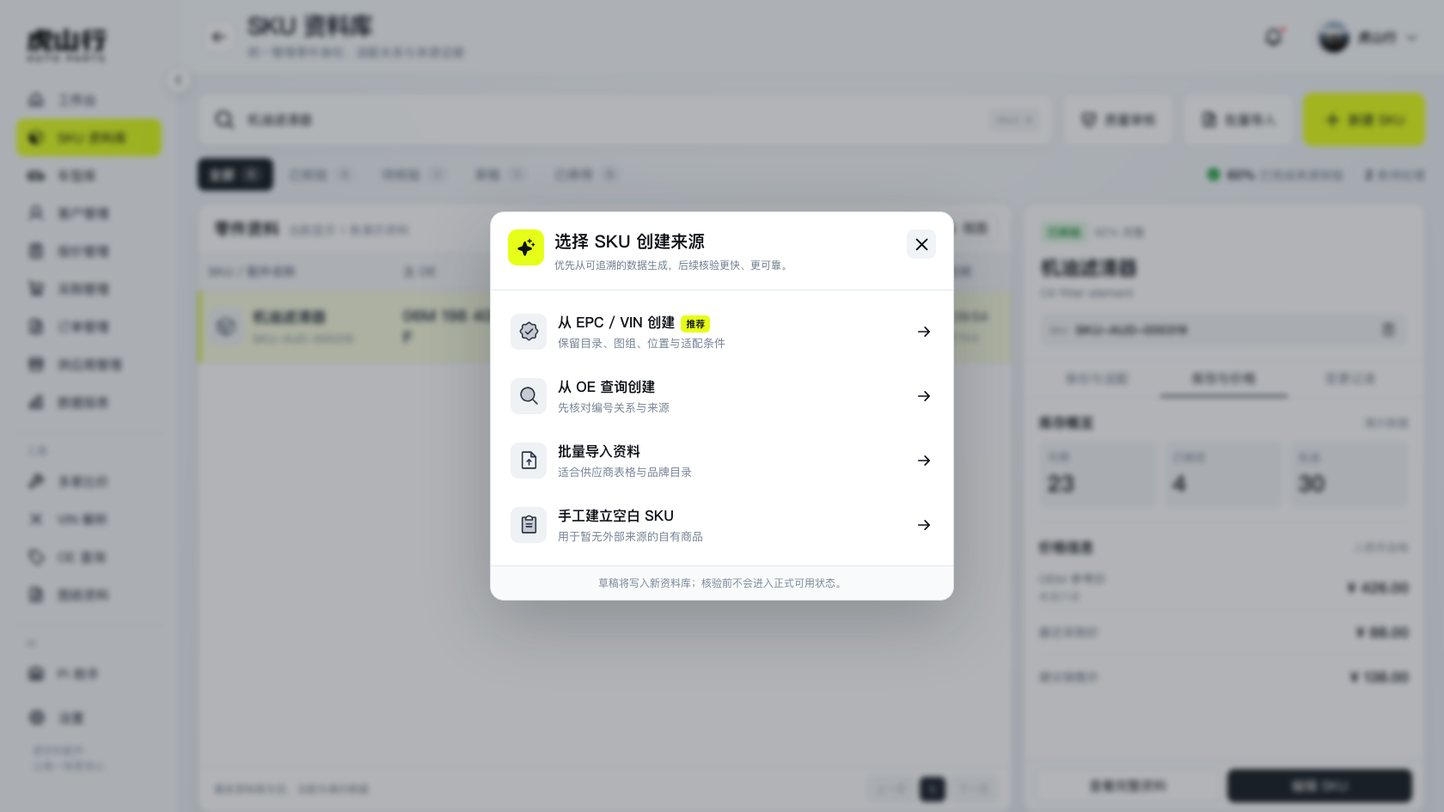
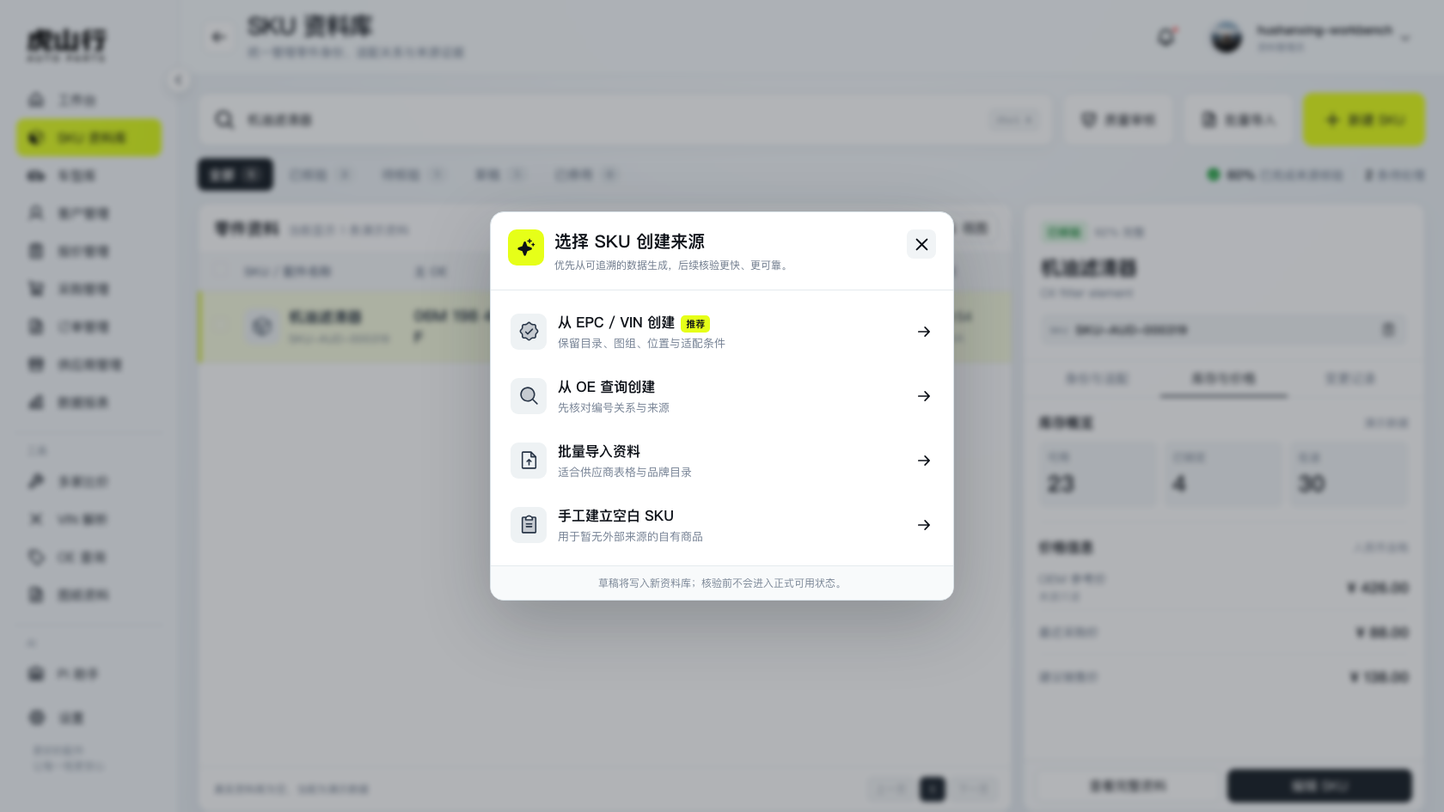
feat: add catalog roles and controlled bulk actions

diff --git a/apps/web/src/components/SkuLibrary.jsx b/apps/web/src/components/SkuLibrary.jsx
@@ -3,7 +3,6 @@ import {
   ArrowLeft,
   ArrowRight,
   Bell,
-  CaretDown,
   Check,
   CheckCircle,
   ClipboardText,
@@ -27,6 +26,8 @@ import { SkuEditor } from './SkuEditor'
 import { SkuImportDialog } from './SkuImportDialog'
 import { SkuQualityQueue } from './SkuQualityQueue'
 import { SkuVersionDialog } from './SkuVersionDialog'
+import { CatalogOperatorMenu } from './CatalogOperatorMenu'
+import { SkuBulkActionDialog } from './SkuBulkActionDialog'
 import { getCatalogDictionaries, getCatalogSku, listCatalogSkus } from '../services/catalogApi'
 import '../sku-library.css'
 
@@ -63,6 +64,9 @@ export function SkuLibrary({ onNavigate, sidebarCollapsed, onToggleSidebar }) {
   const [importOpen, setImportOpen] = useState(false)
   const [qualityOpen, setQualityOpen] = useState(false)
   const [versionDialogChange, setVersionDialogChange] = useState(null)
+  const [bulkAction, setBulkAction] = useState('')
+  const [selectedIds, setSelectedIds] = useState([])
+  const [catalogSession, setCatalogSession] = useState(null)
   const [editorContext, setEditorContext] = useState(null)
   const [toast, setToast] = useState('')
   const [allRecords, setAllRecords] = useState(skuRecords)
@@ -133,6 +137,8 @@ export function SkuLibrary({ onNavigate, sidebarCollapsed, onToggleSidebar }) {
   }, [allRecords, dataMode, query, status])
 
   const selected = allRecords.find((item) => item.id === selectedId) || records[0] || allRecords[0] || emptyRecord
+  const selectedRecords = records.filter((record) => selectedIds.includes(record.id))
+  const hasCapability = (capability) => catalogSession?.capabilities?.includes(capability) ?? true
   const statusFilters = useMemo(() => skuStatusFilters.map((item) => ({
     ...item,
     count: dataMode === 'live'
@@ -166,7 +172,7 @@ export function SkuLibrary({ onNavigate, sidebarCollapsed, onToggleSidebar }) {
   }
 
   const openSelectedEditor = async () => {
-    if (selected.dataOrigin === 'empty') return
+    if (selected.dataOrigin === 'empty' || !hasCapability('catalog.edit')) return
     let record = selected
     if (selected.dataOrigin === 'live' && !selected.aggregate) {
       try {
@@ -194,7 +200,7 @@ export function SkuLibrary({ onNavigate, sidebarCollapsed, onToggleSidebar }) {
     return (
       <div className={`workbench-home sku-workspace ${sidebarCollapsed ? 'sidebar-collapsed' : ''}`}>
         <WorkbenchSidebar active="sku" collapsed={sidebarCollapsed} onToggle={onToggleSidebar} onNavigate={onNavigate} onUnavailable={(label) => notify(`${label}将在后续业务阶段接入`)} />
-        <SkuQualityQueue onBack={() => { setQualityOpen(false); loadCatalog() }} onEdit={(record) => { setQualityOpen(false); setEditorContext({ source: 'epc', record }) }} onSaved={handleSaved} onNotify={notify} />
+        <SkuQualityQueue capabilities={catalogSession?.capabilities || ['catalog.edit', 'catalog.submit', 'catalog.review', 'catalog.assign', 'catalog.lifecycle']} onBack={() => { setQualityOpen(false); loadCatalog() }} onEdit={(record) => { setQualityOpen(false); setEditorContext({ source: 'epc', record }) }} onSaved={handleSaved} onNotify={notify} />
         {toast ? <div className="workbench-toast"><Check size={17} weight="bold" />{toast}</div> : null}
       </div>
     )
@@ -212,7 +218,7 @@ export function SkuLibrary({ onNavigate, sidebarCollapsed, onToggleSidebar }) {
           <div className="sku-profile">
             <button type="button" aria-label="通知"><Bell size={23} weight="bold" /><i /></button>
             <img src={assetPath('assets/workbench/avatar.png')} alt="虎山行头像" />
-            <strong>虎山行</strong><CaretDown size={15} weight="bold" />
+            <CatalogOperatorMenu onSession={(next) => { setCatalogSession(next); setSelectedIds([]) }} />
           </div>
         </header>
 
@@ -220,8 +226,8 @@ export function SkuLibrary({ onNavigate, sidebarCollapsed, onToggleSidebar }) {
           <section className="sku-toolbar" aria-label="SKU 搜索和操作">
             <div className="sku-searchbox"><MagnifyingGlass size={25} weight="bold" /><input value={query} onChange={(event) => setQuery(event.target.value)} placeholder="搜索 SKU、OE 号、配件名称、品牌或适配车型" /><kbd>Ctrl K</kbd></div>
             <button className="sku-secondary-action" type="button" onClick={() => setQualityOpen(true)}><ShieldCheck size={20} weight="bold" />质量审核</button>
-            <button className="sku-secondary-action" type="button" onClick={() => setImportOpen(true)}><FileArrowUp size={20} weight="bold" />批量导入</button>
-            <button className="sku-primary-action" type="button" onClick={() => setSourceOpen(true)}><Plus size={21} weight="bold" />新建 SKU</button>
+            <button className="sku-secondary-action" type="button" disabled={!hasCapability('catalog.import')} onClick={() => setImportOpen(true)}><FileArrowUp size={20} weight="bold" />批量导入</button>
+            <button className="sku-primary-action" type="button" disabled={!hasCapability('catalog.edit')} onClick={() => setSourceOpen(true)}><Plus size={21} weight="bold" />新建 SKU</button>
           </section>
 
           <section className="sku-summarybar">
@@ -233,16 +239,16 @@ export function SkuLibrary({ onNavigate, sidebarCollapsed, onToggleSidebar }) {
 
           <section className="sku-splitview">
             <article className="sku-list-panel">
-              <div className="sku-list-heading">
-                <div><h2>零件资料</h2><span>{dataMode === 'live' ? `当前显示 ${records.length} 条真实资料` : dataMode === 'loading' ? '正在连接资料库…' : `当前显示 ${records.length} 条演示资料`}</span></div>
-                <div><button type="button" onClick={() => notify('高级筛选将在字段字典接入后开放')}><Funnel size={17} weight="bold" />筛选</button><button type="button" onClick={() => notify('当前采用已确定的表格 + 详情视图')}><SlidersHorizontal size={17} weight="bold" />视图</button></div>
+              <div className={`sku-list-heading ${selectedRecords.length ? 'selection-active' : ''}`}>
+                {selectedRecords.length ? <div className="sku-bulk-bar"><strong>已选 {selectedRecords.length} 条</strong><button type="button" disabled={!hasCapability('catalog.submit') || selectedRecords.some((item) => item.status !== 'draft')} onClick={() => setBulkAction('submit_review')}>提交审核</button><button type="button" disabled={!hasCapability('catalog.assign') || selectedRecords.some((item) => item.status !== 'review')} onClick={() => setBulkAction('assign_review')}>分配审核人</button><button type="button" disabled={!hasCapability('catalog.lifecycle') || selectedRecords.some((item) => item.status !== 'verified')} onClick={() => setBulkAction('discontinue')}>停用资料</button><button type="button" onClick={() => setSelectedIds([])}>取消选择</button></div> : <><div><h2>零件资料</h2><span>{dataMode === 'live' ? `当前显示 ${records.length} 条真实资料` : dataMode === 'loading' ? '正在连接资料库…' : `当前显示 ${records.length} 条演示资料`}</span></div><div><button type="button" onClick={() => notify('高级筛选将在字段字典接入后开放')}><Funnel size={17} weight="bold" />筛选</button><button type="button" onClick={() => notify('当前采用已确定的表格 + 详情视图')}><SlidersHorizontal size={17} weight="bold" />视图</button></div></>}
               </div>
               <div className="sku-table-wrap">
                 <table className="sku-table">
-                  <thead><tr><th>SKU / 配件名称</th><th>主 OE</th><th>品牌 / 分类</th><th>适配</th><th>资料状态</th><th>更新时间</th></tr></thead>
+                  <thead><tr><th className="sku-select-cell"><input type="checkbox" aria-label="选择当前页全部 SKU" disabled={dataMode !== 'live' || !records.length} checked={Boolean(records.length) && selectedRecords.length === records.length} onChange={(event) => setSelectedIds(event.target.checked ? records.map((record) => record.id) : [])} /></th><th>SKU / 配件名称</th><th>主 OE</th><th>品牌 / 分类</th><th>适配</th><th>资料状态</th><th>更新时间</th></tr></thead>
                   <tbody>
                     {records.map((item) => (
                       <tr className={selected.id === item.id ? 'selected' : ''} key={item.id} onClick={() => setSelectedId(item.id)}>
+                        <td className="sku-select-cell"><input type="checkbox" aria-label={`选择 ${item.name}`} disabled={dataMode !== 'live'} checked={selectedIds.includes(item.id)} onClick={(event) => event.stopPropagation()} onChange={(event) => setSelectedIds((current) => event.target.checked ? [...current, item.id] : current.filter((id) => id !== item.id))} /></td>
                         <td><span className="sku-part-cell"><span className="sku-part-icon"><Cube size={24} weight="duotone" /></span><span><strong>{item.name}</strong><small>{item.code}</small></span></span></td>
                         <td><b className="sku-oe">{item.primaryOe}</b></td>
                         <td><strong>{item.brand}</strong><small>{item.category}</small></td>
@@ -281,7 +287,7 @@ export function SkuLibrary({ onNavigate, sidebarCollapsed, onToggleSidebar }) {
                 </> : null}
                 {detailTab === 'history' ? <section className="inspector-section history-list"><div className="inspector-section-title"><h3>最近变更</h3><span>版本 {selected.version || 1}</span></div>{selected.dataOrigin === 'live' ? selected.changes.map((change) => <button type="button" key={change.id || `${change.version}-${change.action}`} onClick={() => setVersionDialogChange(change)}><CheckCircle size={19} weight="fill" /><span><strong>v{change.version} · {changeActionLabels[change.action] || change.action}</strong><small>{change.changedBy || '系统操作员'} · {changeTime(change.changedAt)}</small></span><ArrowRight size={15} /></button>) : <><div><CheckCircle size={19} weight="fill" /><span><strong>来源核验通过</strong><small>演示记录</small></span></div><div><ClockCounterClockwise size={19} /><span><strong>更新适配条件</strong><small>演示记录</small></span></div><div><Stack size={19} /><span><strong>同步 EPC 原始记录</strong><small>演示记录</small></span></div></>}{selected.dataOrigin === 'live' && !selected.changes.length ? <div><ClockCounterClockwise size={19} /><span><strong>暂无变更记录</strong><small>保存后将在此显示</small></span></div> : null}</section> : null}
               </div>
-              <footer className="sku-inspector-actions"><button type="button" disabled={selected.dataOrigin === 'empty'} onClick={() => notify('当前右侧已展示完整身份资料')}>查看完整资料</button><button type="button" disabled={selected.dataOrigin === 'empty'} onClick={openSelectedEditor}>编辑 SKU</button></footer>
+              <footer className="sku-inspector-actions"><button type="button" disabled={selected.dataOrigin === 'empty'} onClick={() => notify('当前右侧已展示完整身份资料')}>查看完整资料</button><button type="button" disabled={selected.dataOrigin === 'empty' || !hasCapability('catalog.edit')} onClick={openSelectedEditor}>编辑 SKU</button></footer>
             </aside>
           </section>
         </div>
@@ -289,7 +295,8 @@ export function SkuLibrary({ onNavigate, sidebarCollapsed, onToggleSidebar }) {
 
       {sourceOpen ? <div className="sku-modal-backdrop" onMouseDown={() => setSourceOpen(false)}><div className="sku-source-modal" role="dialog" aria-modal="true" aria-label="选择 SKU 创建来源" onMouseDown={(event) => event.stopPropagation()}><header><div><span><Sparkle size={22} weight="fill" /></span><div><h2>选择 SKU 创建来源</h2><p>优先从可追溯的数据生成，后续核验更快、更可靠。</p></div></div><button type="button" aria-label="关闭" onClick={() => setSourceOpen(false)}><X size={21} weight="bold" /></button></header><div className="sku-source-list">{sources.map((source) => { const Icon = source.icon; return <button type="button" key={source.id} onClick={() => { setSourceOpen(false); setEditorContext({ source: source.id }) }}><span className="source-icon"><Icon size={25} weight="duotone" /></span><span><strong>{source.title}{source.recommended ? <em>推荐</em> : null}</strong><small>{source.note}</small></span><ArrowRight size={18} weight="bold" /></button> })}</div><footer>草稿将写入新资料库；核验前不会进入正式可用状态。</footer></div></div> : null}
       {importOpen ? <SkuImportDialog onClose={() => setImportOpen(false)} onCompleted={() => loadCatalog()} onNotify={notify} /> : null}
-      {versionDialogChange && selected.dataOrigin === 'live' ? <SkuVersionDialog record={selected} initialChange={versionDialogChange} onClose={() => setVersionDialogChange(null)} onRestored={handleSaved} onNotify={notify} /> : null}
+      {versionDialogChange && selected.dataOrigin === 'live' ? <SkuVersionDialog record={selected} initialChange={versionDialogChange} canRestore={hasCapability('catalog.restore')} onClose={() => setVersionDialogChange(null)} onRestored={handleSaved} onNotify={notify} /> : null}
+      {bulkAction ? <SkuBulkActionDialog records={selectedRecords} action={bulkAction} onClose={() => setBulkAction('')} onCompleted={() => { setSelectedIds([]); loadCatalog() }} onNotify={notify} /> : null}
       {toast ? <div className="workbench-toast"><Check size={17} weight="bold" />{toast}</div> : null}
     </div>
   )

diff --git a/apps/web/src/sku-library.css b/apps/web/src/sku-library.css
@@ -11,6 +11,8 @@
 .sku-profile > button i { position: absolute; top: 8px; right: 6px; width: 7px; height: 7px; border: 1px solid #fff; border-radius: 50%; background: #ff3030; }
 .sku-profile img { width: 42px; height: 42px; border-radius: 50%; object-fit: cover; }
 .sku-profile strong { font-size: 15px; }
+.catalog-operator-menu { position: relative; }.catalog-operator-menu > button { min-width: 132px; height: 44px; padding: 0 8px; display: flex; align-items: center; gap: 8px; border: 0; border-radius: 9px; background: transparent; text-align: left; cursor: pointer; }.catalog-operator-menu > button:hover { background: #f1f4f6; }.catalog-operator-menu > button > span { min-width: 0; flex: 1; }.catalog-operator-menu > button strong, .catalog-operator-menu > button small { display: block; }.catalog-operator-menu > button strong { overflow: hidden; font-size: 14px; text-overflow: ellipsis; white-space: nowrap; }.catalog-operator-menu > button small { margin-top: 2px; color: #738094; font-size: 11px; }
+.catalog-role-popover { position: absolute; z-index: 80; top: calc(100% + 8px); right: 0; width: 292px; overflow: hidden; border: 1px solid #d8e0e6; border-radius: 12px; background: #fff; box-shadow: 0 18px 48px rgba(26,39,50,.18); }.catalog-role-popover > header { padding: 13px 14px; display: flex; gap: 9px; border-bottom: 1px solid #e3e8ec; background: #f7f9fa; }.catalog-role-popover header svg { flex: none; color: #536400; }.catalog-role-popover header strong, .catalog-role-popover header span { display: block; }.catalog-role-popover header strong { font-size: 14px; }.catalog-role-popover header span { margin-top: 3px; color: #6d7a8c; font-size: 12px; }.catalog-role-popover > div { padding: 6px; }.catalog-role-popover > div > button { width: 100%; min-height: 52px; padding: 7px 9px; display: flex; align-items: center; justify-content: space-between; border: 0; border-radius: 8px; background: transparent; text-align: left; cursor: pointer; }.catalog-role-popover > div > button:hover { background: #f7fadf; }.catalog-role-popover > div > button strong, .catalog-role-popover > div > button small { display: block; }.catalog-role-popover > div > button strong { font-size: 14px; }.catalog-role-popover > div > button small { margin-top: 2px; color: #788497; font-size: 11px; }
 .sku-content { padding: 20px 22px 22px; }
 
 .sku-toolbar { height: 62px; display: grid; grid-template-columns: minmax(460px, 1fr) auto auto auto; gap: 10px; }
@@ -22,6 +24,7 @@
 .sku-secondary-action, .sku-primary-action { height: 62px; padding: 0 20px; display: inline-flex; align-items: center; justify-content: center; gap: 8px; border-radius: 11px; font-size: 16px; font-weight: 750; cursor: pointer; }
 .sku-secondary-action { border: 1px solid #d8e1e7; background: rgba(255,255,255,.94); }
 .sku-primary-action { min-width: 142px; border: 0; background: var(--wb-accent); }
+.sku-secondary-action:disabled, .sku-primary-action:disabled { cursor: not-allowed; opacity: .45; }
 
 .sku-summarybar { height: 66px; display: flex; align-items: center; justify-content: space-between; }
 .sku-filter-tabs { display: flex; align-items: center; gap: 5px; }
@@ -40,12 +43,14 @@
 .sku-list-heading h2 { margin: 0; font-size: 19px; }.sku-list-heading span { color: #768194; font-size: 14px; }
 .sku-list-heading > div:last-child { display: flex; gap: 7px; }
 .sku-list-heading button { height: 33px; padding: 0 10px; display: inline-flex; align-items: center; gap: 6px; border: 1px solid #dce4e9; border-radius: 7px; background: #fff; font-size: 13px; cursor: pointer; }
+.sku-list-heading.selection-active { padding: 0 12px; background: #f7fadf; }.sku-bulk-bar { width: 100%; display: flex; align-items: center; gap: 7px; }.sku-bulk-bar > strong { margin-right: auto; font-size: 14px; }.sku-bulk-bar button { border-color: #ced7ad; background: #fff; font-weight: 700; }.sku-bulk-bar button:disabled { cursor: not-allowed; opacity: .42; }
 .sku-table-wrap { min-height: 0; overflow: auto; }
 .sku-table { width: 100%; border-collapse: collapse; table-layout: fixed; }
 .sku-table th { position: sticky; z-index: 2; top: 0; height: 43px; padding: 0 11px; border-bottom: 1px solid #e1e7eb; color: #697588; background: #f5f7f9; font-size: 14px; font-weight: 650; text-align: left; }
 .sku-table td { height: 84px; padding: 8px 11px; border-bottom: 1px solid #e6ebef; color: #1d2939; font-size: 15px; vertical-align: middle; cursor: pointer; }
 .sku-table tr:hover td { background: #f8fafb; }.sku-table tr.selected td { background: #f6fadf; }.sku-table tr.selected td:first-child { box-shadow: inset 3px 0 0 #cde800; }
-.sku-table th:nth-child(1) { width: 24%; }.sku-table th:nth-child(2) { width: 16%; }.sku-table th:nth-child(3) { width: 20%; }.sku-table th:nth-child(4) { width: 15%; }.sku-table th:nth-child(5) { width: 13%; }.sku-table th:nth-child(6) { width: 12%; }
+.sku-table th:nth-child(1) { width: 42px; }.sku-table th:nth-child(2) { width: 21%; }.sku-table th:nth-child(3) { width: 15%; }.sku-table th:nth-child(4) { width: 18%; }.sku-table th:nth-child(5) { width: 14%; }.sku-table th:nth-child(6) { width: 14%; }.sku-table th:nth-child(7) { width: 14%; }
+.sku-table .sku-select-cell { padding-right: 4px; padding-left: 12px; text-align: center; }.sku-select-cell input { width: 17px; height: 17px; margin: 0; accent-color: #182029; cursor: pointer; }.sku-select-cell input:disabled { cursor: not-allowed; opacity: .4; }
 .sku-table td > strong, .sku-table td > span:not(.sku-part-cell):not(.sku-state) { display: block; overflow: hidden; text-overflow: ellipsis; white-space: nowrap; }
 .sku-table td > small { display: block; margin-top: 5px; overflow: hidden; color: #788497; font-size: 13px; text-overflow: ellipsis; white-space: nowrap; }
 .sku-part-cell { display: flex; align-items: center; gap: 10px; }.sku-part-icon { flex: none; width: 42px; height: 42px; display: grid; place-items: center; border-radius: 9px; color: #243346; background: #eef2f4; }
@@ -89,5 +94,9 @@
 .sku-version-layout > main { min-width: 0; min-height: 0; padding: 15px 17px; display: grid; grid-template-rows: auto minmax(0,1fr) auto; gap: 12px; background: #fff; }.sku-version-summary { min-height: 72px; padding: 11px 13px; display: grid; grid-template-columns: 125px 135px 1fr; align-items: center; gap: 10px; border: 1px solid #dce4e9; border-radius: 10px; background: #f7f9fa; }.sku-version-summary > div span, .sku-version-summary > div strong { display: block; }.sku-version-summary > div span { color: #6f7d90; font-size: 12px; }.sku-version-summary > div strong { margin-top: 3px; font-size: 19px; }.sku-version-summary p { margin: 0; padding-left: 14px; border-left: 1px solid #dce3e7; color: #5f6d80; font-size: 13px; line-height: 1.55; }
 .sku-version-compare { min-height: 0; overflow: auto; border: 1px solid #dce4e9; border-radius: 10px; }.sku-version-compare > div { min-height: 54px; padding: 8px 12px; display: grid; grid-template-columns: 110px 1fr 1fr; align-items: center; gap: 12px; border-bottom: 1px solid #e7ecef; }.sku-version-compare > div:last-child { border-bottom: 0; }.sku-version-compare-head { position: sticky; z-index: 2; top: 0; min-height: 42px !important; color: #687588; background: #f1f4f6; font-size: 13px; font-weight: 700; }.sku-version-compare > div > strong { font-size: 13px; }.sku-version-compare > div > span { min-width: 0; overflow-wrap: anywhere; color: #4e5c70; font-size: 13px; line-height: 1.45; }.sku-version-compare > div.changed { background: #fffef3; }.sku-version-compare > div.changed > strong { color: #745f00; }.sku-version-compare > div.changed > span:last-child { color: #17202a; font-weight: 700; }
 .sku-version-restore { padding-top: 2px; }.sku-version-restore label > span { display: block; margin-bottom: 6px; font-size: 13px; font-weight: 700; }.sku-version-restore textarea { width: 100%; height: 58px; padding: 9px 10px; resize: none; border: 1px solid #d6dfe5; border-radius: 8px; outline: 0; font: inherit; font-size: 14px; }.sku-version-restore textarea:focus { border-color: #9baa4a; box-shadow: 0 0 0 3px rgba(222,244,59,.18); }.sku-version-restore > p { margin: 5px 0 0; color: #bd4238; font-size: 13px; }.sku-version-restore > div { margin-top: 9px; display: flex; justify-content: flex-end; gap: 8px; }.sku-version-restore button { height: 38px; padding: 0 14px; display: inline-flex; align-items: center; gap: 7px; border: 1px solid #d4dde4; border-radius: 8px; background: #fff; font-size: 14px; font-weight: 700; cursor: pointer; }.sku-version-restore button.primary { border-color: #171f27; color: #fff; background: #171f27; }.sku-version-restore button:disabled { cursor: not-allowed; opacity: .45; }
+
+.sku-bulk-backdrop { position: fixed; z-index: 120; inset: 0; display: grid; place-items: center; background: rgba(25,34,42,.42); backdrop-filter: blur(4px); }.sku-bulk-dialog { width: min(620px, calc(100vw - 40px)); overflow: hidden; border: 1px solid #d7dfe5; border-radius: 15px; background: #fff; box-shadow: 0 26px 80px rgba(18,29,38,.26); }.sku-bulk-dialog > header { min-height: 84px; padding: 16px 18px; display: flex; justify-content: space-between; border-bottom: 1px solid #e1e7eb; }.sku-bulk-dialog > header > div { display: flex; gap: 11px; }.sku-bulk-dialog > header > div > span { width: 42px; height: 42px; display: grid; flex: none; place-items: center; border-radius: 10px; background: var(--wb-accent); }.sku-bulk-dialog > header > div > span.danger { color: #b03e35; background: #ffe6e2; }.sku-bulk-dialog h2 { margin: 0; font-size: 20px; }.sku-bulk-dialog header p { max-width: 450px; margin: 5px 0 0; color: #687588; font-size: 13px; line-height: 1.5; }.sku-bulk-dialog header > button { width: 34px; height: 34px; display: grid; place-items: center; border: 0; border-radius: 8px; background: #f1f4f6; cursor: pointer; }
+.sku-bulk-selection { margin: 16px 18px 12px; padding: 12px 13px; border: 1px solid #dce4e9; border-radius: 10px; background: #f7f9fa; }.sku-bulk-selection > strong { display: block; margin-bottom: 8px; font-size: 14px; }.sku-bulk-selection > div { max-height: 150px; overflow: auto; display: grid; grid-template-columns: 1fr 1fr; gap: 6px; }.sku-bulk-selection span { min-width: 0; padding: 7px 8px; display: block; overflow: hidden; border-radius: 7px; background: #fff; font-size: 13px; font-weight: 700; text-overflow: ellipsis; white-space: nowrap; }.sku-bulk-selection small { display: block; margin-top: 3px; overflow: hidden; color: #788597; font-size: 11px; font-weight: 500; text-overflow: ellipsis; }.sku-bulk-selection em { padding: 8px; color: #687588; font-size: 12px; font-style: normal; }
+.sku-bulk-field { margin: 0 18px 12px; display: block; }.sku-bulk-field > span { display: block; margin-bottom: 6px; font-size: 13px; font-weight: 700; }.sku-bulk-field input, .sku-bulk-field textarea { width: 100%; padding: 9px 10px; border: 1px solid #d5dee4; border-radius: 8px; outline: 0; font: inherit; font-size: 14px; }.sku-bulk-field input { height: 40px; }.sku-bulk-field textarea { height: 70px; resize: none; }.sku-bulk-field input:focus, .sku-bulk-field textarea:focus { border-color: #98a747; box-shadow: 0 0 0 3px rgba(220,244,48,.18); }.sku-bulk-error { margin: 0 18px 10px; display: flex; align-items: center; gap: 6px; color: #b63f36; font-size: 13px; }.sku-bulk-dialog > footer { padding: 12px 18px; display: flex; justify-content: flex-end; gap: 8px; border-top: 1px solid #e2e7eb; background: #fafbfc; }.sku-bulk-dialog > footer button, .sku-bulk-result > button { height: 39px; padding: 0 15px; border: 1px solid #d4dde3; border-radius: 8px; background: #fff; font-size: 14px; font-weight: 700; cursor: pointer; }.sku-bulk-dialog > footer button.primary { border-color: #172029; color: #fff; background: #172029; }.sku-bulk-dialog > footer button.danger { border-color: #c84d43; color: #fff; background: #c84d43; }.sku-bulk-dialog > footer button:disabled { cursor: not-allowed; opacity: .5; }.sku-bulk-result { min-height: 320px; padding: 38px 24px; display: flex; flex-direction: column; align-items: center; text-align: center; }.sku-bulk-result > svg { color: #20a043; }.sku-bulk-result h3 { margin: 13px 0 5px; font-size: 21px; }.sku-bulk-result > p { margin: 0; color: #647185; font-size: 14px; }.sku-bulk-result > div { width: 100%; max-height: 120px; margin-top: 15px; overflow: auto; text-align: left; }.sku-bulk-result > div span { padding: 7px; display: block; border-bottom: 1px solid #e4e9ec; color: #a23f37; font-size: 12px; }.sku-bulk-result > div strong { margin-right: 8px; color: #273446; }.sku-bulk-result > button { margin-top: 22px; }
 
 @media (min-width: 1780px) { .sku-content { padding-right: 28px; padding-left: 26px; }.sku-splitview { grid-template-columns: minmax(880px, 1.9fr) minmax(420px, .86fr); } }

diff --git a/apps/web/src/components/SkuQualityQueue.jsx b/apps/web/src/components/SkuQualityQueue.jsx
@@ -35,7 +35,7 @@ function shortTime(value) {
   return new Intl.DateTimeFormat('zh-CN', { month: '2-digit', day: '2-digit', hour: '2-digit', minute: '2-digit', hour12: false }).format(new Date(value))
 }
 
-export function SkuQualityQueue({ onBack, onEdit, onSaved, onNotify }) {
+export function SkuQualityQueue({ capabilities = [], onBack, onEdit, onSaved, onNotify }) {
   const [surface, setSurface] = useState('queue')
   const [records, setRecords] = useState([])
   const [selectedId, setSelectedId] = useState('')
@@ -79,6 +79,7 @@ export function SkuQualityQueue({ onBack, onEdit, onSaved, onNotify }) {
   }, [selectedId])
 
   const visibleIssues = useMemo(() => selected?.qualityIssues || [], [selected])
+  const hasCapability = (capability) => capabilities.includes(capability)
 
   const runAction = async (nextAction) => {
     if (!selected) return
@@ -146,16 +147,16 @@ export function SkuQualityQueue({ onBack, onEdit, onSaved, onNotify }) {
               <div className="quality-review-scroll">
                 <section><div className="quality-section-title"><h3>自动质量检查</h3><span>{visibleIssues.length ? `${visibleIssues.length} 项待处理` : '全部通过'}</span></div><div className="quality-checks">{Object.entries(issueMeta).map(([code, meta]) => { const failed = visibleIssues.includes(code); return <div className={failed ? 'failed' : 'passed'} key={code}>{failed ? <WarningCircle size={19} weight="fill" /> : <CheckCircle size={19} weight="fill" />}<span><strong>{failed ? meta.label : meta.passLabel}</strong><small>{failed ? '需要补充或人工确认' : '检查通过'}</small></span></div> })}</div></section>
                 <section><div className="quality-section-title"><h3>审核信息</h3></div><dl className="quality-review-info"><div><dt>当前审核人</dt><dd>{selected.reviewAssignee || '未分配'}</dd></div><div><dt>审核截止</dt><dd>{shortTime(selected.reviewDueAt)}</dd></div><div><dt>完整度</dt><dd>{selected.completeness}%</dd></div><div><dt>来源</dt><dd>{selected.source}</dd></div></dl></section>
-                <section><div className="quality-section-title"><h3>分配审核</h3></div><div className="quality-assignee"><UserCircle size={20} /><select aria-label="选择审核人" value={assignee} onChange={(event) => setAssignee(event.target.value)}><option>资料审核员</option><option>虎山行</option><option>采购负责人</option></select><button type="button" disabled={selected.status !== 'review' || busy} onClick={() => runAction('assign_review')}>保存分配</button></div></section>
+                <section><div className="quality-section-title"><h3>分配审核</h3></div><div className="quality-assignee"><UserCircle size={20} /><select aria-label="选择审核人" disabled={!hasCapability('catalog.assign')} value={assignee} onChange={(event) => setAssignee(event.target.value)}><option>资料审核员</option><option>虎山行</option><option>采购负责人</option></select><button type="button" disabled={!hasCapability('catalog.assign') || selected.status !== 'review' || busy} onClick={() => runAction('assign_review')}>保存分配</button></div></section>
                 {action ? <section className="quality-decision"><div className="quality-section-title"><h3>{actionCopy[action].title}</h3><button type="button" onClick={() => { setAction(''); setNote(''); setError('') }}>取消</button></div><textarea autoFocus value={note} onChange={(event) => setNote(event.target.value)} placeholder={actionCopy[action].placeholder} /><button type="button" disabled={busy} onClick={() => runAction(action)}>{busy ? '正在提交…' : `确认${actionCopy[action].title}`}</button></section> : null}
                 {error ? <div className="quality-error"><WarningCircle size={18} weight="fill" />{error}</div> : null}
               </div>
               <footer>
-                <button type="button" onClick={() => onEdit?.(selected)}>编辑资料</button>
-                {selected.status === 'draft' ? <button className="primary" type="button" disabled={visibleIssues.length > 0 || busy} onClick={() => runAction('submit_review')}>提交审核</button> : null}
-                {selected.status === 'review' ? <><button className="danger" type="button" onClick={() => setAction('reject_review')}>退回修改</button><button className="primary" type="button" disabled={visibleIssues.length > 0 || busy} onClick={() => setAction('approve_review')}><SealCheck size={18} weight="fill" />通过审核</button></> : null}
-                {selected.status === 'verified' ? <button className="danger" type="button" onClick={() => setAction('discontinue')}>停用资料</button> : null}
-                {selected.status === 'discontinued' ? <button className="primary" type="button" onClick={() => setAction('reopen')}>恢复为草稿</button> : null}
+                <button type="button" disabled={!hasCapability('catalog.edit')} onClick={() => onEdit?.(selected)}>编辑资料</button>
+                {selected.status === 'draft' ? <button className="primary" type="button" disabled={!hasCapability('catalog.submit') || visibleIssues.length > 0 || busy} onClick={() => runAction('submit_review')}>提交审核</button> : null}
+                {selected.status === 'review' ? <><button className="danger" type="button" disabled={!hasCapability('catalog.review')} onClick={() => setAction('reject_review')}>退回修改</button><button className="primary" type="button" disabled={!hasCapability('catalog.review') || visibleIssues.length > 0 || busy} onClick={() => setAction('approve_review')}><SealCheck size={18} weight="fill" />通过审核</button></> : null}
+                {selected.status === 'verified' ? <button className="danger" type="button" disabled={!hasCapability('catalog.lifecycle')} onClick={() => setAction('discontinue')}>停用资料</button> : null}
+                {selected.status === 'discontinued' ? <button className="primary" type="button" disabled={!hasCapability('catalog.lifecycle')} onClick={() => setAction('reopen')}>恢复为草稿</button> : null}
               </footer>
             </> : <div className="quality-no-selection"><ShieldCheck size={42} weight="duotone" /><strong>选择一条资料开始审核</strong></div>}
           </aside>

diff --git a/apps/web/src/components/SkuVersionDialog.jsx b/apps/web/src/components/SkuVersionDialog.jsx
@@ -44,7 +44,7 @@ function comparisonRows(current, historical) {
   ].map(([label, currentValue, historyValue]) => ({ label, currentValue, historyValue, changed: currentValue !== historyValue }))
 }
 
-export function SkuVersionDialog({ record, initialChange, onClose, onRestored, onNotify }) {
+export function SkuVersionDialog({ record, initialChange, canRestore: permitted = true, onClose, onRestored, onNotify }) {
   const [selectedId, setSelectedId] = useState(initialChange?.id || record.changes?.[0]?.id)
   const [reason, setReason] = useState('')
   const [busy, setBusy] = useState(false)
@@ -52,7 +52,7 @@ export function SkuVersionDialog({ record, initialChange, onClose, onRestored, o
   const selected = record.changes?.find((item) => item.id === selectedId) || initialChange || record.changes?.[0]
   const rows = useMemo(() => comparisonRows(record.aggregate || {}, selected?.snapshot || {}), [record, selected])
   const changedCount = rows.filter((row) => row.changed).length
-  const canRestore = Boolean(selected && selected.version < record.version)
+  const canRestore = Boolean(permitted && selected && selected.version < record.version)
 
   const restore = async () => {
     if (!reason.trim()) { setError('请填写恢复原因，便于后续审计'); return }
@@ -77,7 +77,7 @@ export function SkuVersionDialog({ record, initialChange, onClose, onRestored, o
         <aside><div><strong>变更时间线</strong><span>{record.changes?.length || 0} 个版本</span></div><nav>{(record.changes || []).map((change) => <button type="button" className={change.id === selected?.id ? 'active' : ''} key={change.id} onClick={() => { setSelectedId(change.id); setError('') }}><span>{change.action === 'restore_version' ? <ArrowCounterClockwise size={18} /> : change.version === record.version ? <CheckCircle size={18} /> : <ClockCounterClockwise size={18} />}</span><div><strong>v{change.version} · {actionLabels[change.action] || change.action}</strong><small>{change.changedBy || '系统操作员'} · {displayTime(change.changedAt)}</small></div></button>)}</nav></aside>
         <main><div className="sku-version-summary"><div><span>选择版本</span><strong>v{selected?.version || '—'}</strong></div><div><span>与当前不同</span><strong>{changedCount} 项</strong></div><p>恢复只复制业务资料内容，并生成新的草稿版本；审核状态不会回退。</p></div>
           <section className="sku-version-compare"><div className="sku-version-compare-head"><span>字段</span><span>当前 v{record.version}</span><span>历史 v{selected?.version || '—'}</span></div>{rows.map((row) => <div className={row.changed ? 'changed' : ''} key={row.label}><strong>{row.label}</strong><span>{row.currentValue}</span><span>{row.historyValue}</span></div>)}</section>
-          <div className="sku-version-restore"><label><span>恢复原因</span><textarea value={reason} onChange={(event) => setReason(event.target.value)} disabled={!canRestore || busy} placeholder={canRestore ? '例如：撤销错误的 OE 与车型适配修改' : '当前版本无需恢复'} /></label>{error ? <p>{error}</p> : null}<div><button type="button" onClick={onClose}>取消</button><button className="primary" type="button" disabled={!canRestore || busy} onClick={restore}><ArrowCounterClockwise size={17} weight="bold" />{busy ? '正在恢复…' : `恢复 v${selected?.version || ''} 为新草稿`}</button></div></div>
+          <div className="sku-version-restore"><label><span>恢复原因</span><textarea value={reason} onChange={(event) => setReason(event.target.value)} disabled={!canRestore || busy} placeholder={!permitted ? '当前角色没有版本恢复权限' : canRestore ? '例如：撤销错误的 OE 与车型适配修改' : '当前版本无需恢复'} /></label>{error ? <p>{error}</p> : null}<div><button type="button" onClick={onClose}>取消</button><button className="primary" type="button" disabled={!canRestore || busy} onClick={restore}><ArrowCounterClockwise size={17} weight="bold" />{busy ? '正在恢复…' : `恢复 v${selected?.version || ''} 为新草稿`}</button></div></div>
         </main>
       </div>
     </div>

diff --git a/apps/web/src/components/SkuBulkActionDialog.jsx b/apps/web/src/components/SkuBulkActionDialog.jsx
@@ -1,0 +1,44 @@
+import { useState } from 'react'
+import { CheckCircle, ShieldCheck, WarningCircle, X } from '@phosphor-icons/react'
+import { bulkTransitionCatalogSkus } from '../services/catalogApi'
+
+const actionMeta = {
+  submit_review: { title: '批量提交审核', description: '完整性与编号冲突会逐条检查，不合格资料不会进入审核。', confirm: '提交审核' },
+  assign_review: { title: '批量分配审核人', description: '只更新审核中的资料，每条记录仍保留独立审计事件。', confirm: '确认分配' },
+  discontinue: { title: '批量停用资料', description: '停用不会删除历史数据；恢复后仍需重新审核。', confirm: '确认停用', danger: true },
+}
+
+export function SkuBulkActionDialog({ records, action, onClose, onCompleted, onNotify }) {
+  const meta = actionMeta[action]
+  const [assignee, setAssignee] = useState('资料审核员')
+  const [note, setNote] = useState('')
+  const [busy, setBusy] = useState(false)
+  const [result, setResult] = useState(null)
+  const [error, setError] = useState('')
+
+  const execute = async () => {
+    if (action === 'discontinue' && !note.trim()) { setError('批量停用必须填写原因'); return }
+    if (action === 'assign_review' && !assignee.trim()) { setError('请选择或填写审核人'); return }
+    setBusy(true)
+    setError('')
+    try {
+      const next = await bulkTransitionCatalogSkus(records, action, { note: note.trim(), assignee: assignee.trim() })
+      setResult(next)
+      onCompleted?.(next)
+      onNotify?.(`批量操作完成：成功 ${next.succeeded} 条，失败 ${next.failed} 条`)
+    } catch (actionError) {
+      setError(actionError.message || '批量操作失败')
+    } finally {
+      setBusy(false)
+    }
+  }
+
+  return <div className="sku-bulk-backdrop" onMouseDown={onClose}><section className="sku-bulk-dialog" role="dialog" aria-modal="true" aria-label={meta.title} onMouseDown={(event) => event.stopPropagation()}>
+    <header><div><span className={meta.danger ? 'danger' : ''}><ShieldCheck size={22} weight="duotone" /></span><div><h2>{meta.title}</h2><p>{meta.description}</p></div></div><button type="button" aria-label="关闭批量操作" onClick={onClose}><X size={20} weight="bold" /></button></header>
+    {!result ? <><div className="sku-bulk-selection"><strong>已选择 {records.length} 条资料</strong><div>{records.slice(0, 6).map((record) => <span key={record.id}>{record.name}<small>{record.code} · v{record.version}</small></span>)}{records.length > 6 ? <em>另有 {records.length - 6} 条</em> : null}</div></div>
+      {action !== 'discontinue' ? <label className="sku-bulk-field"><span>审核人</span><input value={assignee} onChange={(event) => setAssignee(event.target.value)} placeholder="输入审核人" /></label> : null}
+      <label className="sku-bulk-field"><span>{action === 'discontinue' ? '停用原因（必填）' : '操作说明（选填）'}</span><textarea value={note} onChange={(event) => setNote(event.target.value)} placeholder={action === 'discontinue' ? '说明停用原因，例如：编号已被新件号替代' : '补充本次批量操作的说明'} /></label>
+      {error ? <p className="sku-bulk-error"><WarningCircle size={17} />{error}</p> : null}
+      <footer><button type="button" onClick={onClose}>取消</button><button className={meta.danger ? 'danger' : 'primary'} type="button" disabled={busy} onClick={execute}>{busy ? '正在处理…' : `${meta.confirm} ${records.length} 条`}</button></footer></> : <div className="sku-bulk-result"><CheckCircle size={42} weight="fill" /><h3>批量操作已完成</h3><p>成功 {result.succeeded} 条，失败 {result.failed} 条</p>{result.failures?.length ? <div>{result.failures.map((failure) => <span key={failure.id}><strong>{failure.id}</strong>{failure.message}</span>)}</div> : null}<button type="button" onClick={onClose}>返回资料库</button></div>}
+  </section></div>
+}

diff --git a/apps/web/tests/dashboard.spec.js b/apps/web/tests/dashboard.spec.js
@@ -158,6 +158,31 @@ test('previews CSV conflicts and imports only explicitly selected rows', async (
   await expect(page.getByText('后刹车片', { exact: true }).first()).toBeVisible()
 })
 
+test('supports controlled bulk review submission with per-record results', async ({ page }) => {
+  await page.getByRole('button', { name: 'SKU 资料库' }).click()
+  await page.getByLabel('选择 前制动盘').check()
+  await page.getByLabel('选择 后刹车片').check()
+  await page.getByRole('button', { name: '提交审核', exact: true }).click()
+  const dialog = page.getByRole('dialog', { name: '批量提交审核' })
+  await expect(dialog).toContainText('已选择 2 条资料')
+  await page.screenshot({ path: 'qa-artifacts/implementation-sku-bulk-review-1680.png', fullPage: false })
+  await dialog.getByRole('button', { name: '提交审核 2 条' }).click()
+  await expect(dialog.getByRole('heading', { name: '批量操作已完成' })).toBeVisible()
+  await expect(dialog.getByText('成功 2 条，失败 0 条')).toBeVisible()
+  await dialog.getByRole('button', { name: '返回资料库' }).click()
+})
+
+test('switches development roles and disables unauthorized operations', async ({ page }) => {
+  await page.getByRole('button', { name: 'SKU 资料库' }).click()
+  await page.getByRole('button', { name: '当前资料权限' }).click()
+  await expect(page.getByText('开发环境可切换角色进行验收')).toBeVisible()
+  await page.getByRole('button', { name: /只读查看/ }).click()
+  await expect(page.getByRole('button', { name: '新建 SKU' })).toBeDisabled()
+  await expect(page.getByRole('button', { name: '批量导入' })).toBeDisabled()
+  await page.getByRole('button', { name: '当前资料权限' }).click()
+  await page.screenshot({ path: 'qa-artifacts/implementation-sku-role-permissions-1680.png', fullPage: false })
+})
+
 test('shows actionable validation issues for an incomplete manual SKU', async ({ page }) => {
   await page.getByRole('button', { name: 'SKU 资料库' }).click()
   await page.getByRole('button', { name: '新建 SKU' }).click()

diff --git a/apps/web/src/components/CatalogOperatorMenu.jsx b/apps/web/src/components/CatalogOperatorMenu.jsx
@@ -1,0 +1,35 @@
+import { useEffect, useRef, useState } from 'react'
+import { CaretDown, Check, ShieldCheck } from '@phosphor-icons/react'
+import { getCatalogSession, setStoredCatalogRole } from '../services/catalogApi'
+
+export function CatalogOperatorMenu({ onSession }) {
+  const [session, setSession] = useState(null)
+  const [open, setOpen] = useState(false)
+  const root = useRef(null)
+
+  const load = async () => {
+    const next = await getCatalogSession()
+    setSession(next)
+    onSession?.(next)
+  }
+
+  useEffect(() => { load().catch(() => {}) }, [])
+  useEffect(() => {
+    const close = (event) => { if (!root.current?.contains(event.target)) setOpen(false) }
+    document.addEventListener('pointerdown', close)
+    return () => document.removeEventListener('pointerdown', close)
+  }, [])
+
+  const choose = async (role) => {
+    setStoredCatalogRole(role)
+    setOpen(false)
+    await load()
+  }
+
+  const displayName = session?.name === 'hushanxing-workbench' ? '虎山行' : session?.name || '虎山行'
+
+  return <div className="catalog-operator-menu" ref={root}>
+    <button type="button" aria-label="当前资料权限" aria-expanded={open} onClick={() => setOpen((value) => !value)}><span><strong>{displayName}</strong><small>{session?.roleLabel || '资料管理员'}</small></span><CaretDown size={14} weight="bold" /></button>
+    {open ? <div className="catalog-role-popover"><header><ShieldCheck size={18} weight="duotone" /><div><strong>当前资料权限</strong><span>{session?.development ? '开发环境可切换角色进行验收' : '权限由登录身份决定'}</span></div></header>{session?.availableRoles?.length ? <div>{session.availableRoles.map((role) => <button type="button" key={role.id} onClick={() => choose(role.id)}><span><strong>{role.label}</strong><small>{role.capabilities.length} 项能力</small></span>{session.role === role.id ? <Check size={17} weight="bold" /> : null}</button>)}</div> : null}</div> : null}
+  </div>
+}

diff --git a/apps/web/src/services/catalogApi.js b/apps/web/src/services/catalogApi.js
@@ -1,9 +1,18 @@
 const apiBase = (import.meta.env?.VITE_API_BASE || '').replace(/\/$/, '')
+const operatorRoleKey = 'hushanxing.catalog.role'
+
+export function getStoredCatalogRole() {
+  return window.localStorage.getItem(operatorRoleKey) || 'catalog_admin'
+}
+
+export function setStoredCatalogRole(role) {
+  window.localStorage.setItem(operatorRoleKey, role)
+}
 
 async function request(path, options = {}) {
   const response = await fetch(`${apiBase}${path}`, {
     ...options,
-    headers: { 'content-type': 'application/json', 'x-operator-name': 'hushanxing-workbench', ...options.headers },
+    headers: { 'content-type': 'application/json', 'x-operator-name': 'hushanxing-workbench', 'x-operator-role': getStoredCatalogRole(), ...options.headers },
   })
   const body = await response.json().catch(() => ({}))
   if (!response.ok) {
@@ -14,6 +23,10 @@ async function request(path, options = {}) {
     throw error
   }
   return body
+}
+
+export function getCatalogSession() {
+  return request('/api/v2/catalog/session')
 }
 
 function displayTime(value) {
@@ -107,6 +120,15 @@ export async function transitionCatalogSku(record, action, { note = '', assignee
     method: 'POST', body: JSON.stringify({ action, expectedVersion: record.version, note, assignee, dueAt: dueAt || null }),
   })
   return mapCatalogSku(result)
+}
+
+export function bulkTransitionCatalogSkus(records, action, { note = '', assignee = '', dueAt = '' } = {}) {
+  return request('/api/v2/catalog/skus/bulk-transition', {
+    method: 'POST', body: JSON.stringify({
+      action, note, assignee, dueAt: dueAt || null,
+      items: records.map((record) => ({ id: record.id, expectedVersion: record.version })),
+    }),
+  })
 }
 
 export async function findDuplicateIdentifiers(identifier, exceptId = '') {
